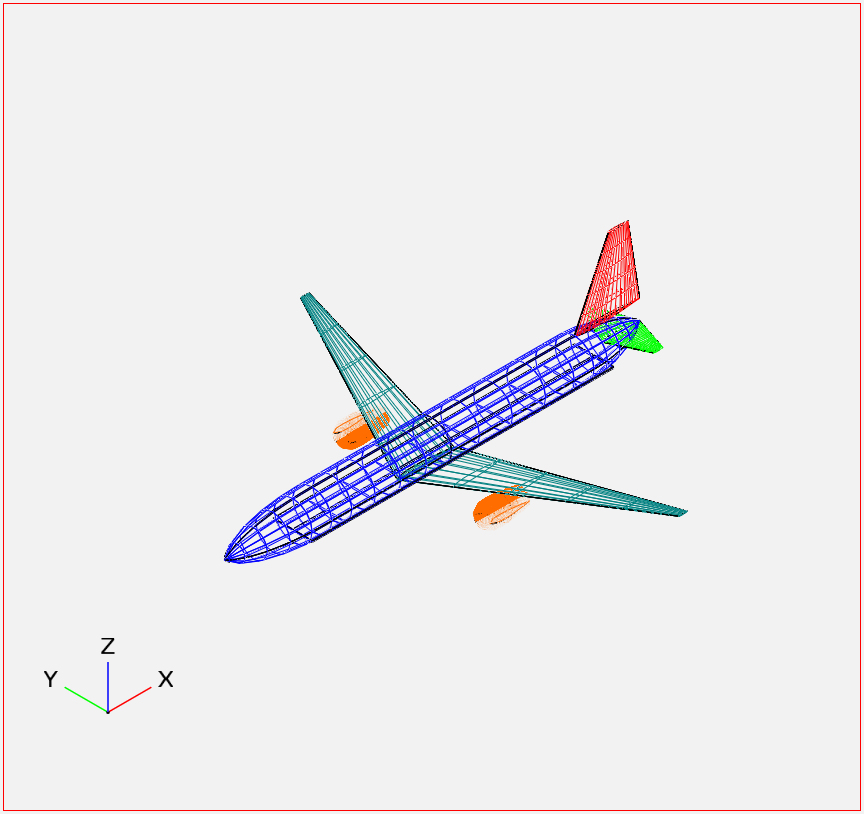
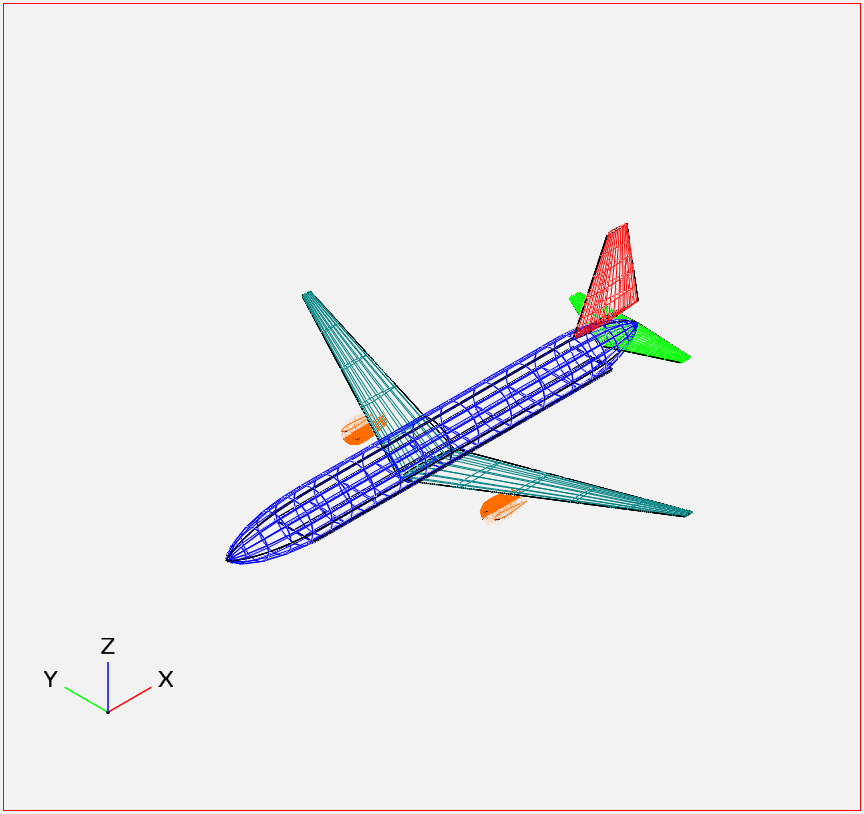
Updating the VSP HT for conventional configs (pt.2)

Changed region(s): [[0.25, 0.2764, 0.8125, 0.7064]]

diff --git a/genVSP.py b/genVSP.py
@@ -208,8 +208,10 @@ def genDesFile(sol, aircraft = 'D82', i = 0, swpt = False):
     if aircraft in ['b737800', 'b777300ER','optimal737','optimal777','optimalRJ']:
         resultsDict.update({
         # HT Variables
-        'USGQFZQKJWC':float(float(xCGht.magnitude) - crootht.magnitude), # HT x location
+        'USGQFZQKJWC':float(float(xCGht.magnitude) - crootht.magnitude),     # HT x location
         'BLMHVDOLAQJ':float(0.),                                             # HT z location
+        'CHYQUCYJMPS':float(bht.magnitude*0.5 + wfuse.magnitude),            # HT half-span
+
         # VT variables
         'LLYTEYDPDID':float(xCGvt.magnitude - 0.5*crootvt.magnitude),        # VT x location (LE location)
         'BFZDOVCXTAV':float(0.),                                             # VT y location (as wide as fuselage)
